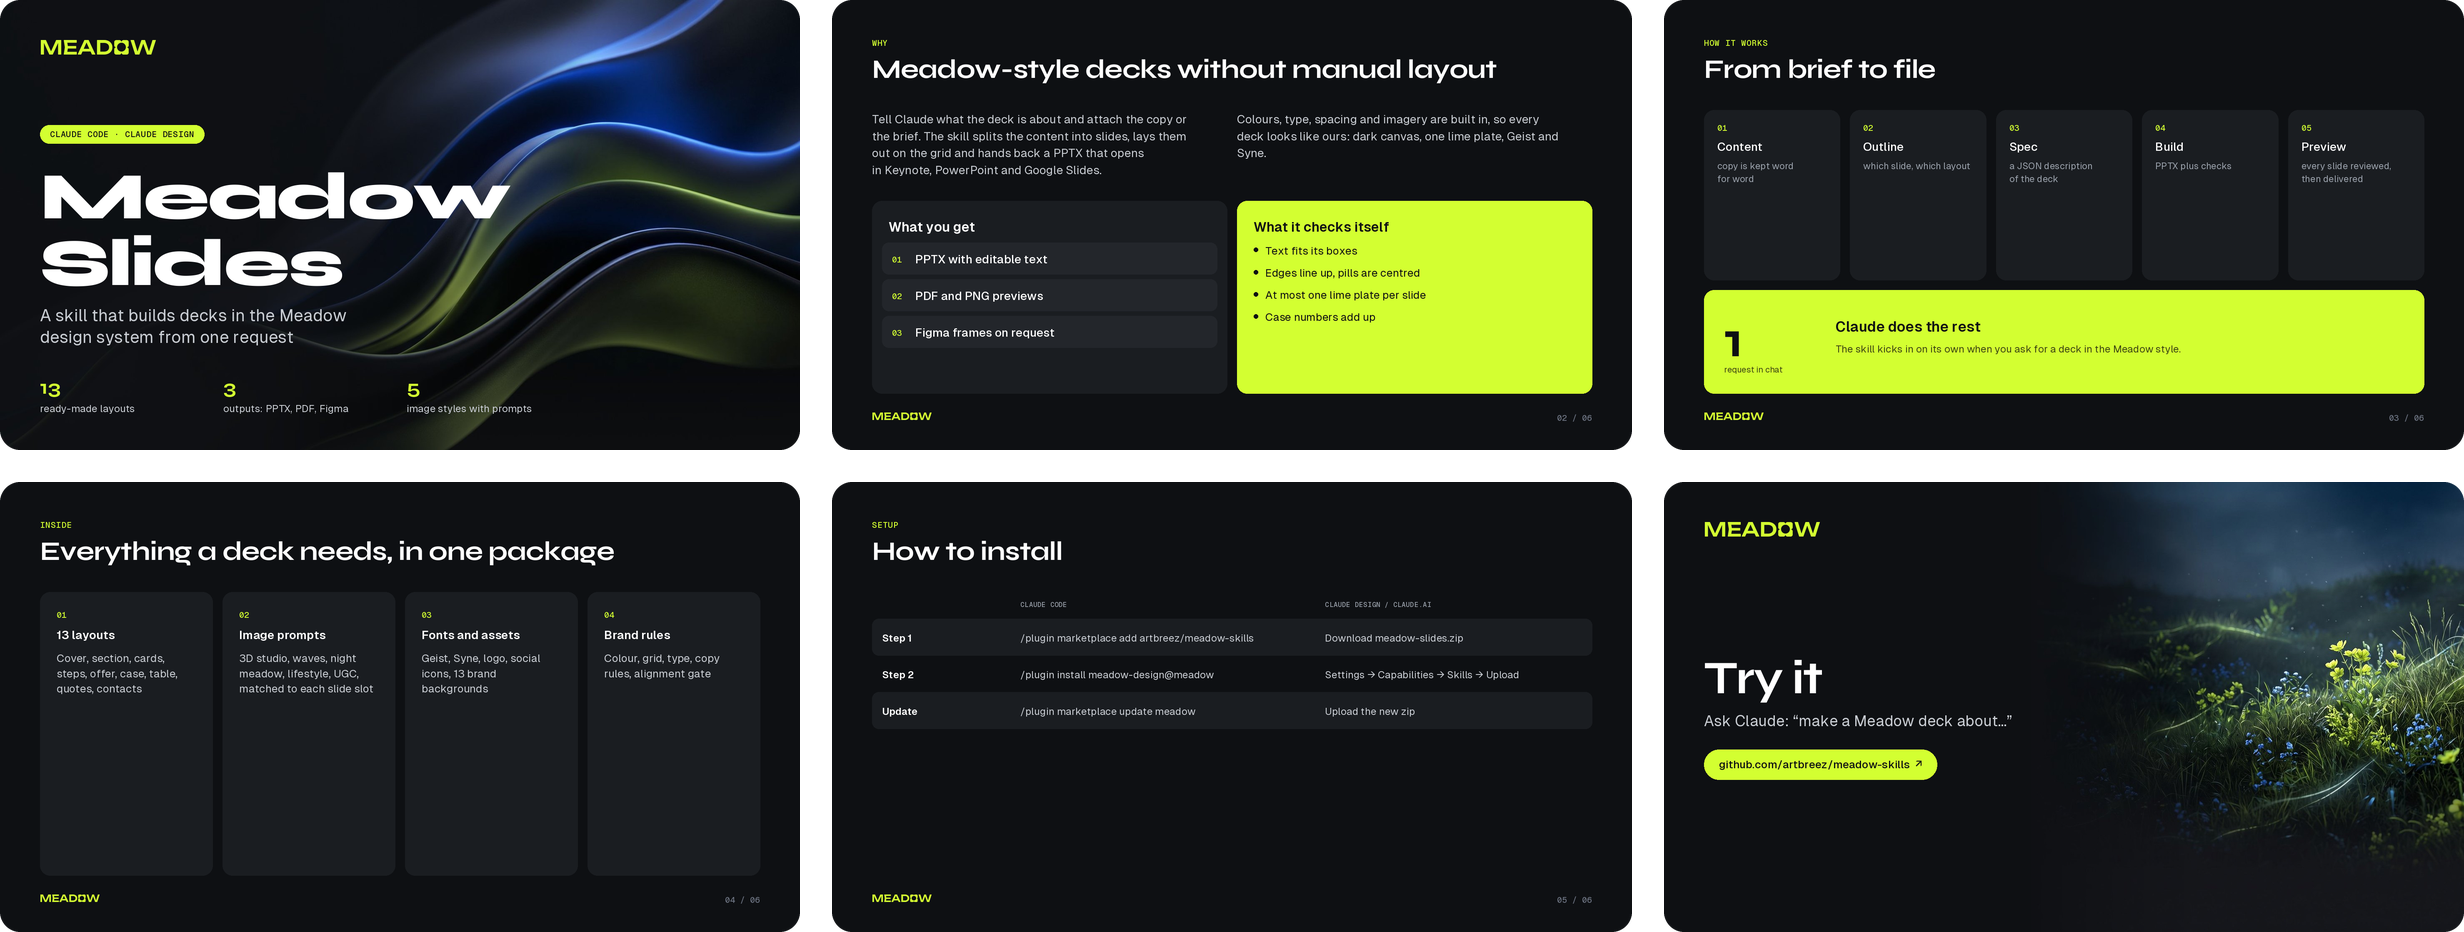
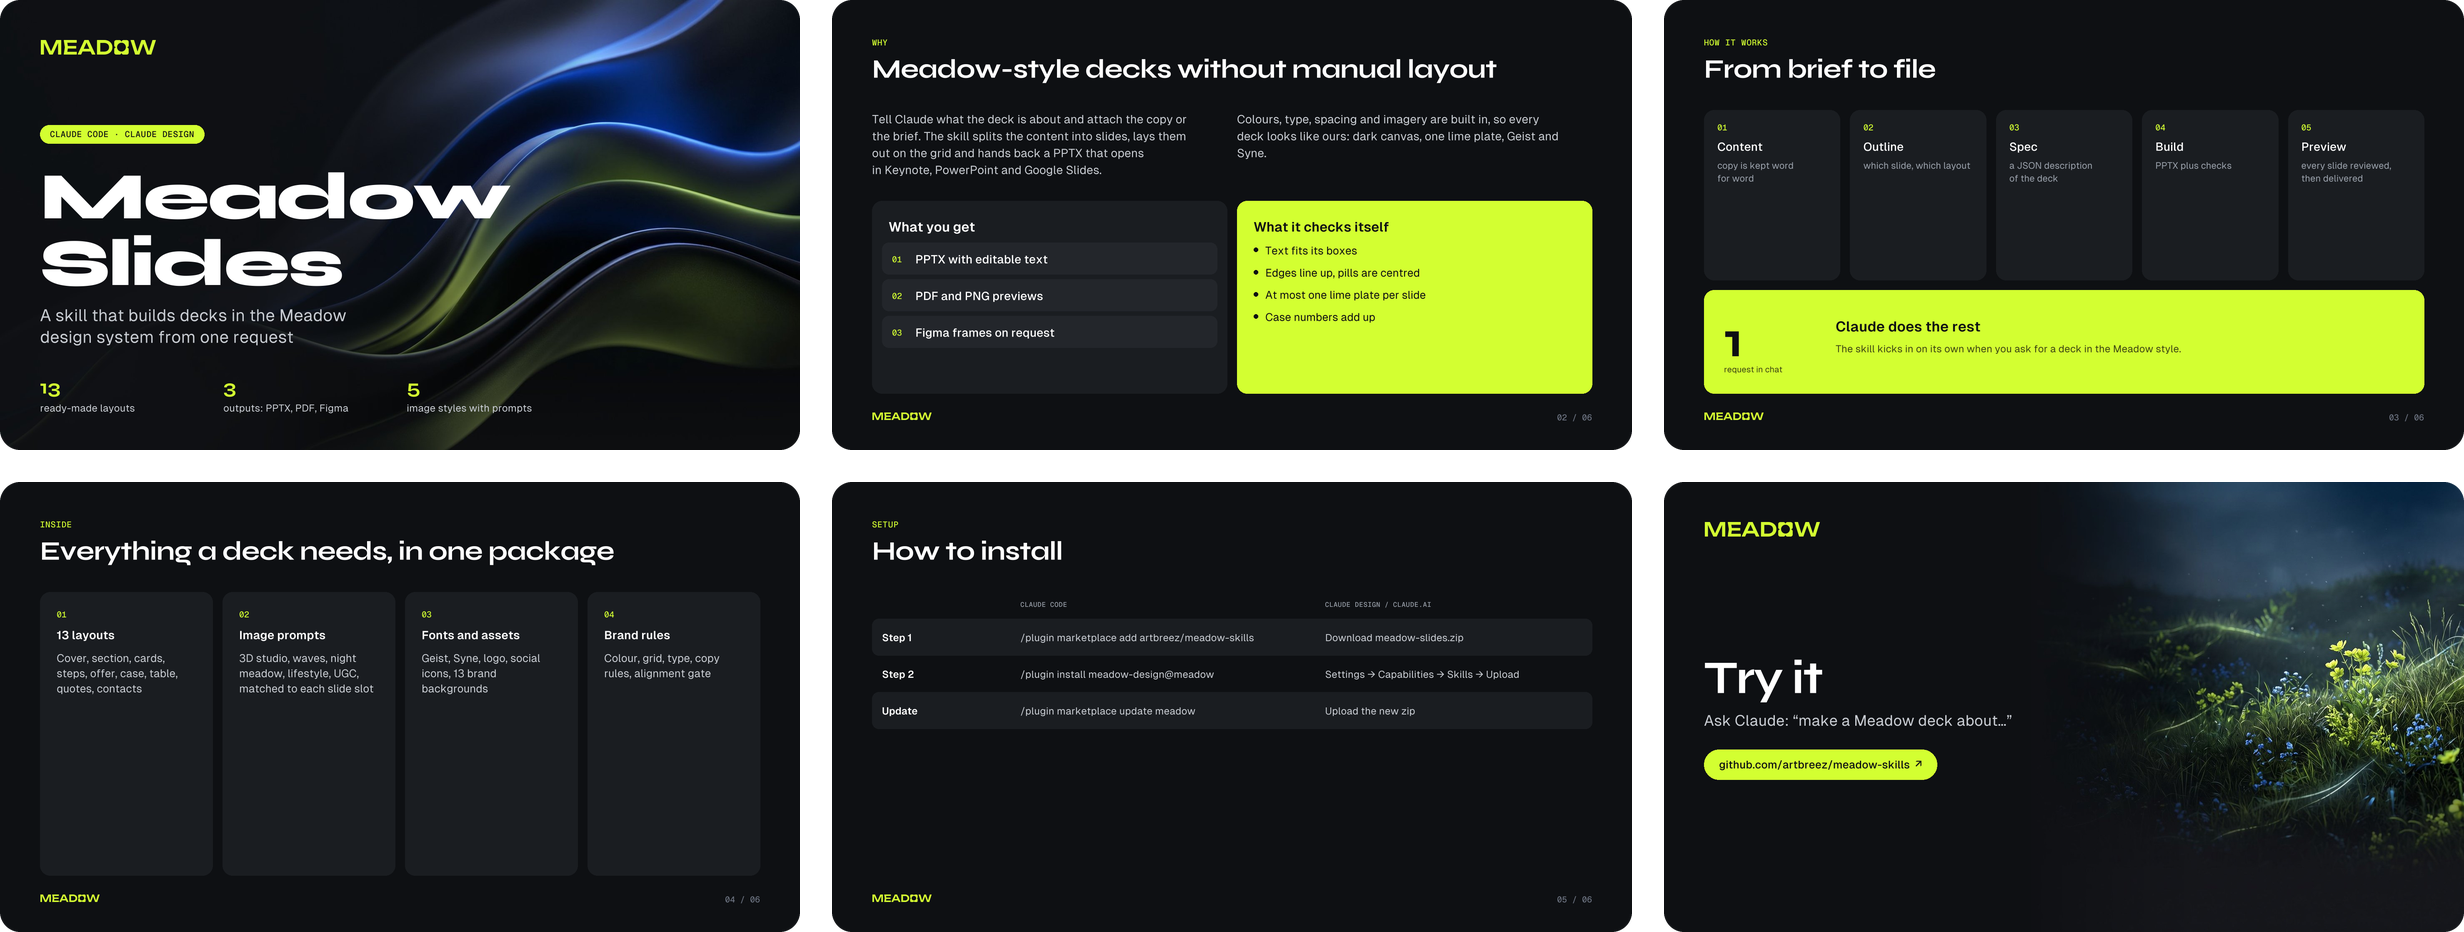
PNG/PDF render: draw each line supersampled so letter-spacing no longer jitters
Placing glyphs one by one at 1x rounded each to a whole pixel. Lines are now drawn on a
4x layer at exact positions and box-filtered down; README images rebuilt.

diff --git a/plugins/meadow-design/skills/meadow-slides/scripts/meadow_deck.py b/plugins/meadow-design/skills/meadow-slides/scripts/meadow_deck.py
@@ -14,6 +14,7 @@ from __future__ import annotations
 
 import argparse
 import json
+import math
 import os
 import re
 import sys
@@ -1031,6 +1032,33 @@ def write_pdf(slides, path):
     pages[0].save(path, save_all=True, append_images=pages[1:], resolution=144)
 
 
+def _draw_line(im, line, x, baseline, hi, tr, asc, desc, width, color):
+    """Draw one line supersampled: glyphs placed at exact fractional positions on a 4x layer,
+    then box-filtered down. Drawing at 1x would round every glyph to a whole pixel and make
+    letter-spacing jitter."""
+    if not line.strip():
+        return
+    left, top = max(0, math.floor(x) - 2), max(0, math.floor(baseline - asc) - 2)
+    w_, h_ = math.ceil(width + x - left) + 4, math.ceil(baseline + desc - top) + 4
+    mask = Image.new("L", (w_ * 4, h_ * 4), 0)
+    d4 = ImageDraw.Draw(mask)
+    ox, oy = (x - left) * 4, (baseline - top) * 4
+    if tr:
+        for i, ch in enumerate(line):
+            if ch.strip():
+                d4.text((ox + hi.getlength(line[:i]) + tr * 4 * i, oy), ch, font=hi, fill=255, anchor="ls")
+    else:
+        d4.text((ox, oy), line, font=hi, fill=255, anchor="ls")
+    mask = mask.resize((w_, h_), Image.BOX)
+    if color[3] < 255:
+        mask = mask.point(lambda v: v * color[3] // 255)
+    layer = Image.new("RGBA", (w_, h_), color[:3] + (0,))
+    layer.putalpha(mask)
+    w_, h_ = min(w_, im.width - left), min(h_, im.height - top)
+    if w_ > 0 and h_ > 0:
+        im.alpha_composite(layer.crop((0, 0, w_, h_)), (left, top))
+
+
 def render_png(slides, outdir, scale=0.5):
     """Draw the computed layout with Pillow. Close to the PPTX (tracking included),
     but needs no office app, so it works in any sandbox."""
@@ -1079,19 +1107,18 @@ def render_png(slides, outdir, scale=0.5):
                 asc, desc, _ = vmetrics(pr["family"], pr["weight"])
                 if pr.get("valign") == "middle":
                     y = (p.y + (p.h - len(lines) * pr["size"] * pr["lh"]) / 2) * scale
-                hi = font(pr["family"], pr["weight"], pr["size"] * scale * 4)   # unhinted advances, like Keynote
+                sz = pr["size"] * scale
+                hi = font(pr["family"], pr["weight"], sz * 4)   # 4x: unhinted advances, like Keynote
                 adv = lambda t_: hi.getlength(t_) / 4
+                color = _rgba(pr["color"])
                 for line in lines:
                     lw_ = adv(line) + tr * max(0, len(line) - 1)
                     x = p.x * scale + {"left": 0, "center": (p.w * scale - lw_) / 2, "right": p.w * scale - lw_}[pr["align"]]
                     if pr.get("valign") == "middle":
-                        pos, anchor = (y + lh * asc / (asc + desc)), "ls"
+                        bl = y + lh * asc / (asc + desc)
                     else:
-                        pos, anchor = y + (lh - pr["size"] * scale) / 2, "la"
-                    # glyph by glyph at exact positions: prefix widths keep kerning, tracking is added
-                    for i, ch in enumerate(line):
-                        if ch.strip():
-                            d.text((x + adv(line[:i]) + tr * i, pos), ch, font=f, fill=_rgba(pr["color"]), anchor=anchor)
+                        bl = y + (lh - sz) / 2 + asc * sz
+                    _draw_line(im, line, x, bl, hi, tr, asc * sz, desc * sz, lw_, color)
                     y += lh
         path = os.path.join(outdir, f"slide-{s.index:02d}.png")
         im.convert("RGB").save(path)
